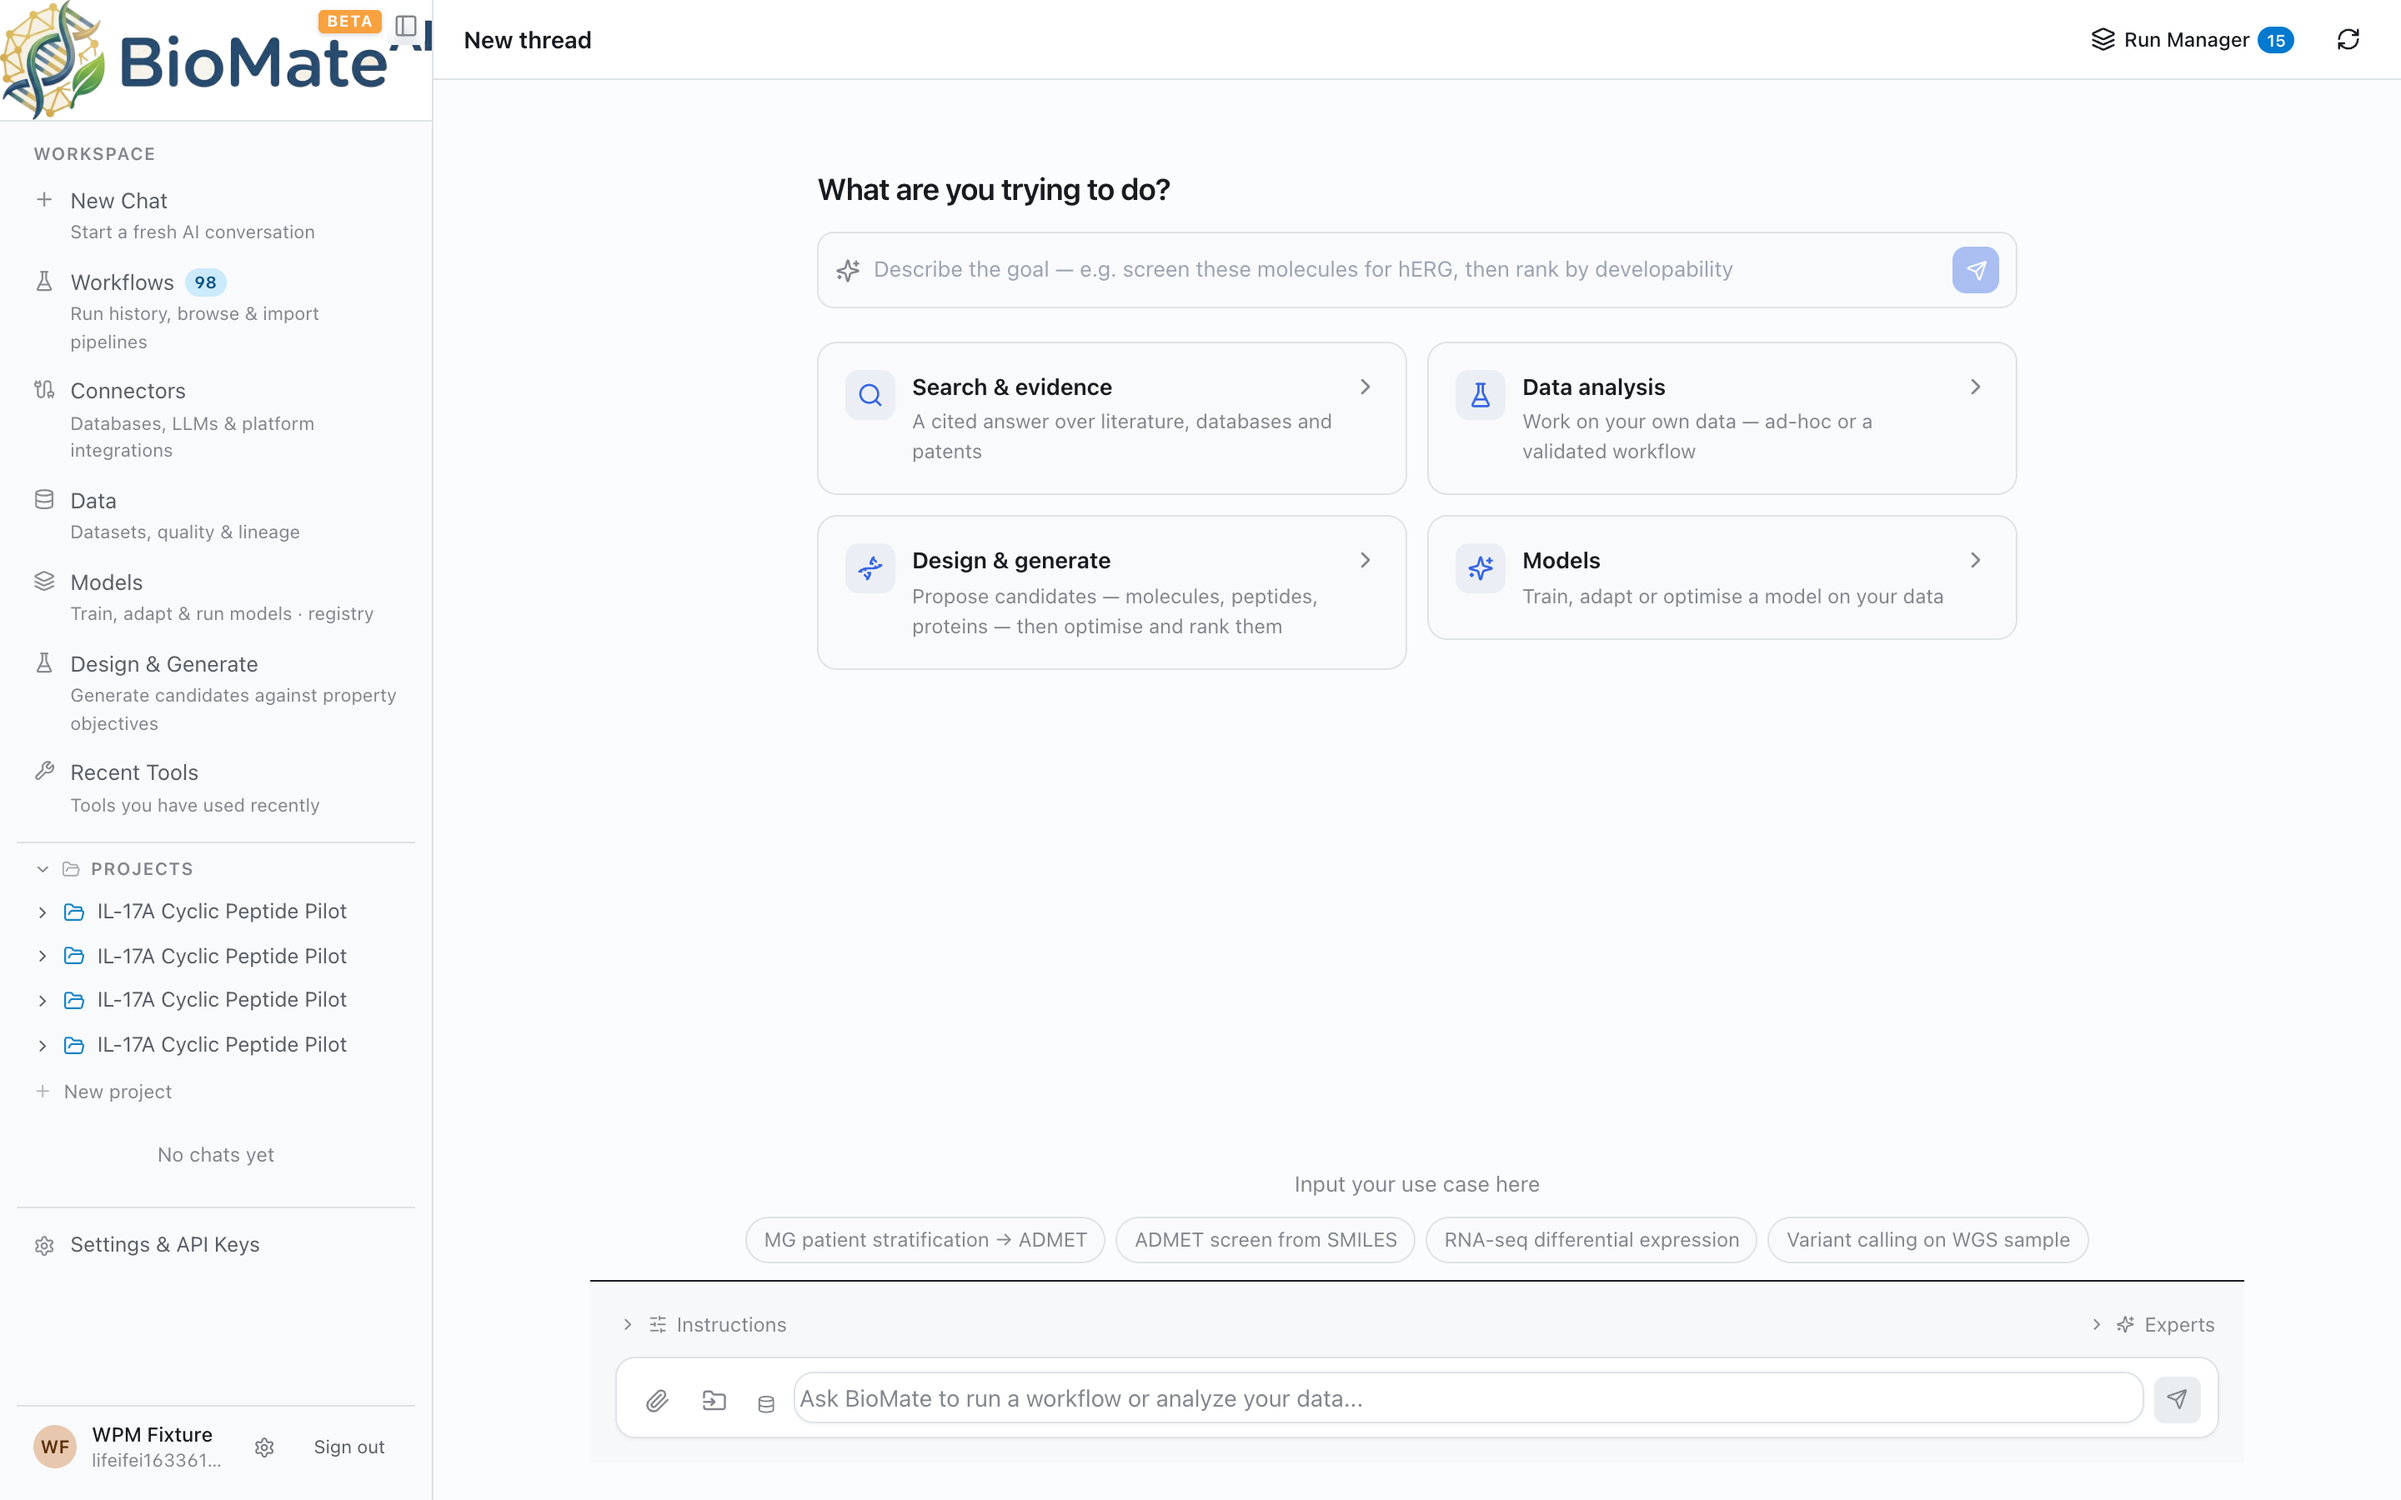
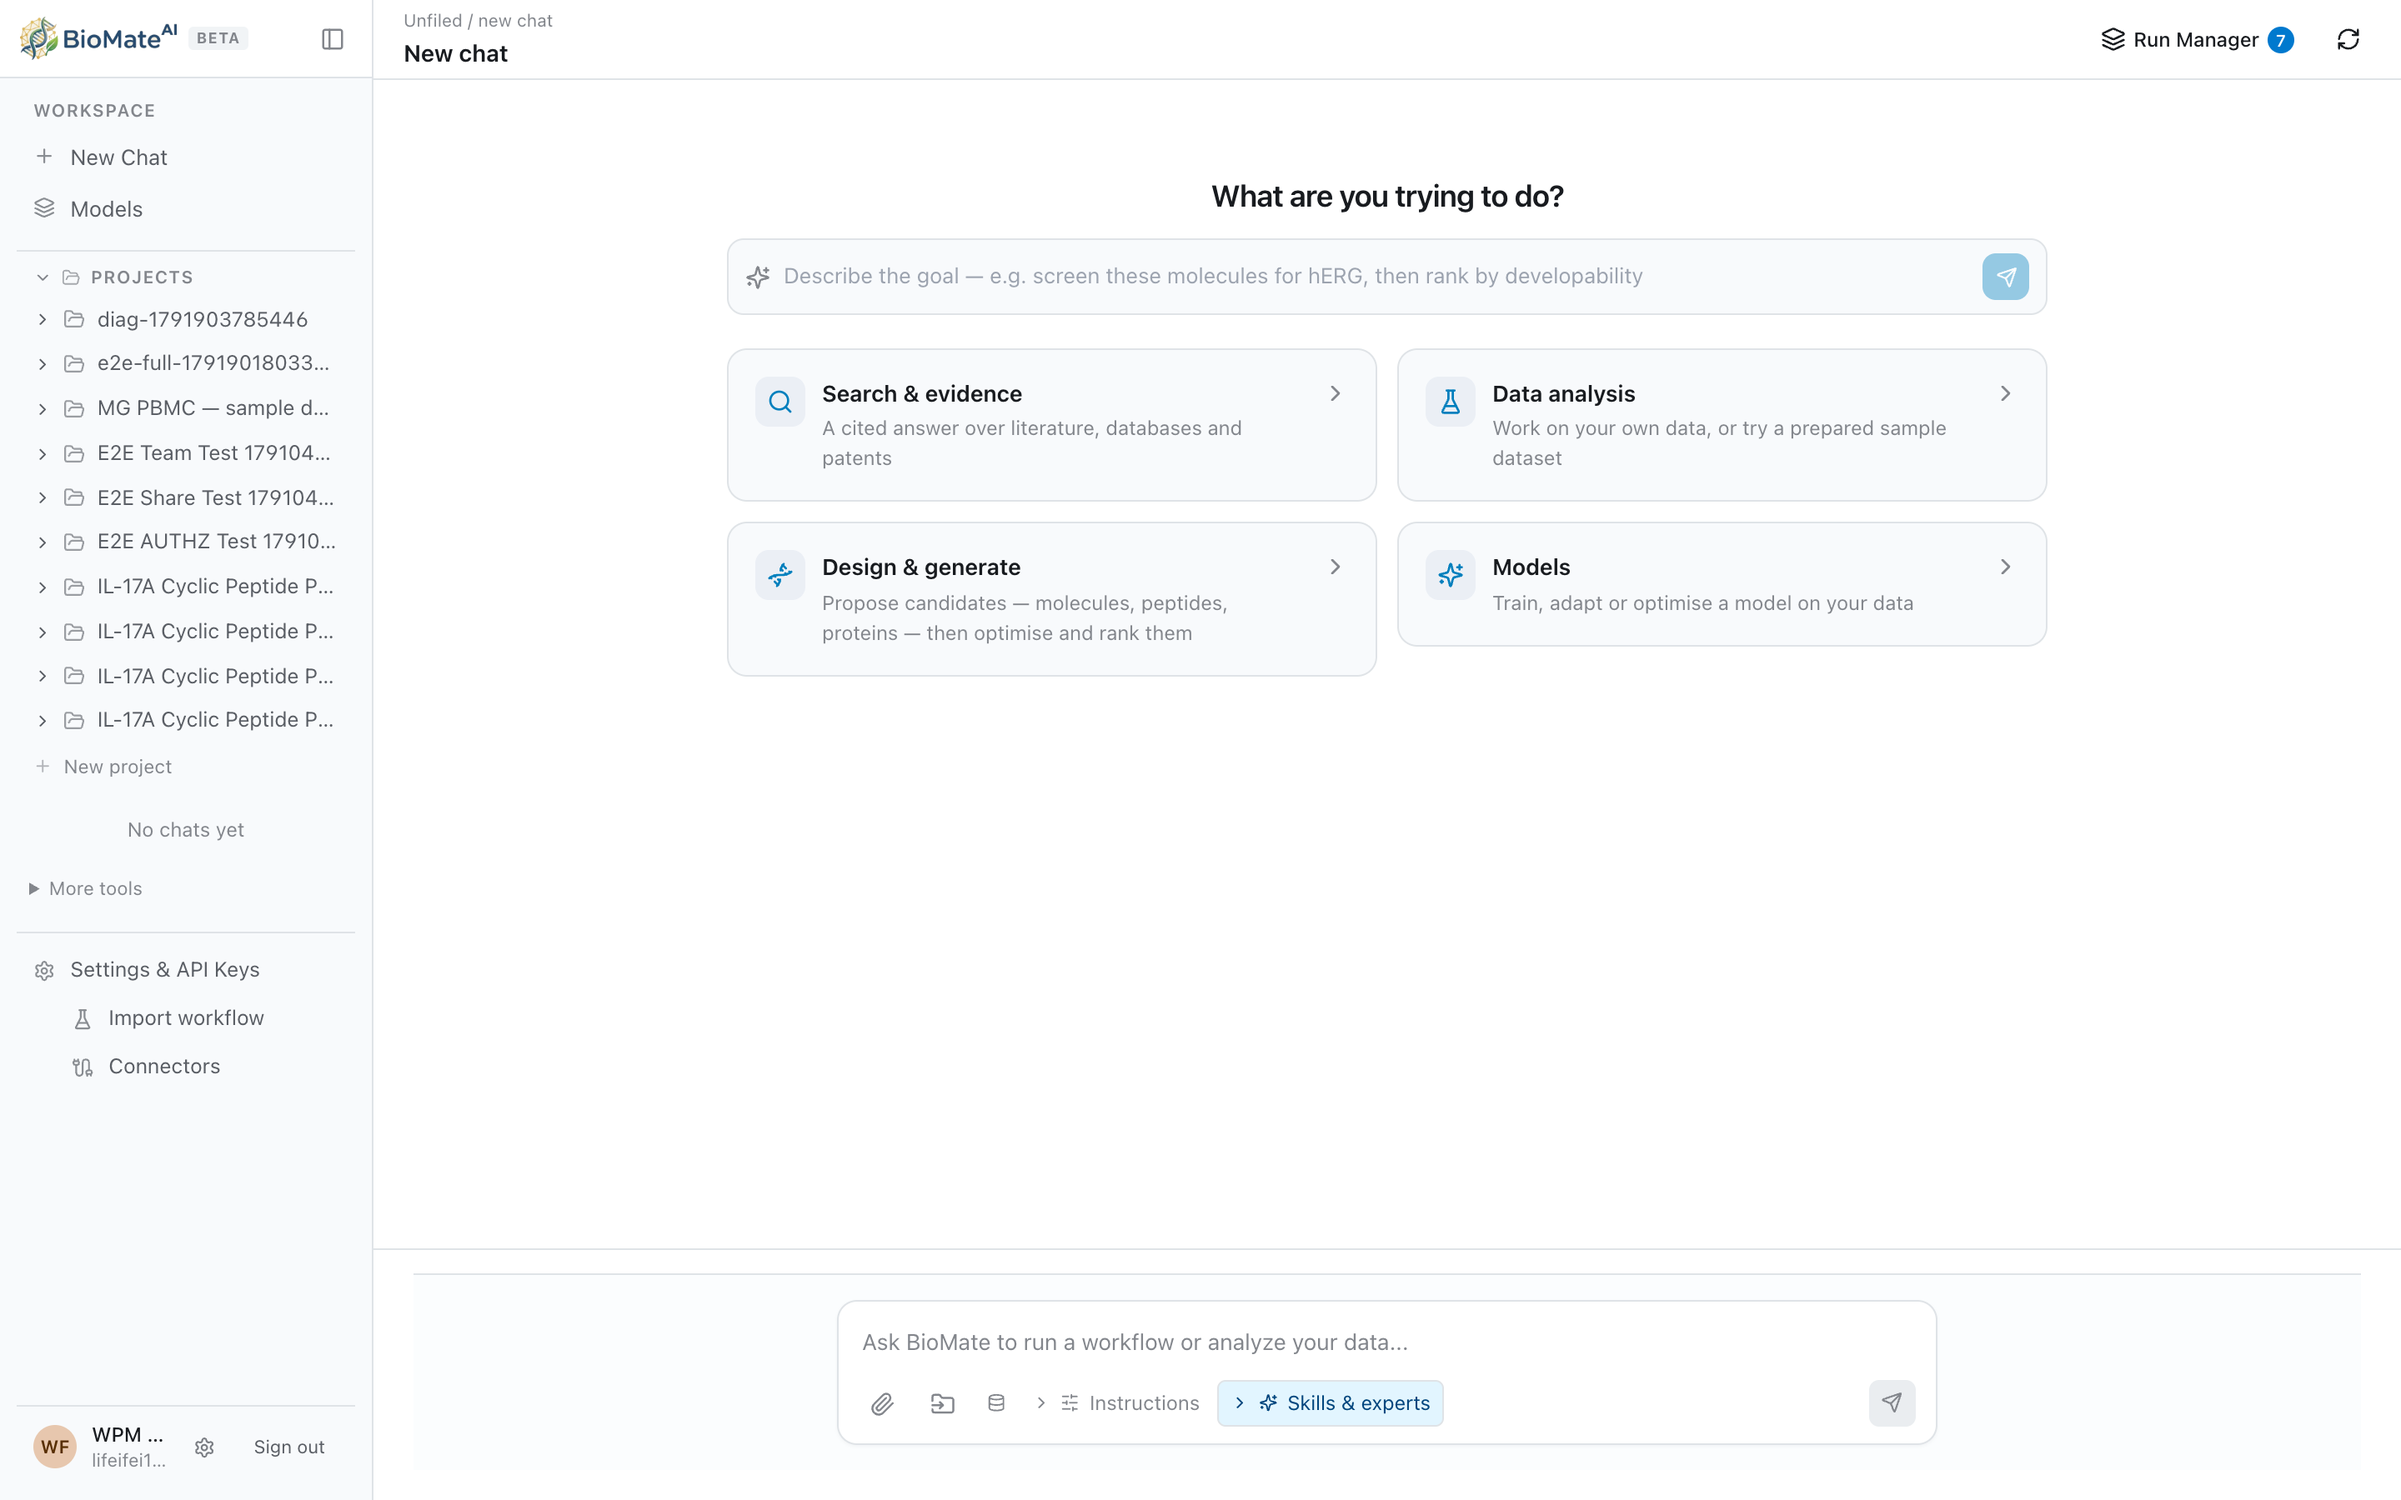
docs(assets): refresh cold-start + after-run stills for merged Results view
Re-captured via the established manual-screenshots harness (not ad-hoc):
- Updated manual-screenshots.e2e.ts after-run capture for the MERGED view —
  use /debug/afterrun/:runId (AfterRunReport) + a run with real findings/
  outputs; the old /debug/viewer + after-tab-outputs path is gone (no Outputs
  tab anymore). Default MANUAL_RUN_ID = the ADMET run.
- i01-1-cold-start.png: current cold-start ('try a prepared sample dataset').
- i09-1-three-tabs.png: now the two-tab Results view (findings banner + Download
  findings). i08-1-outputs-tab.png: the inline output-preview gallery.
  i09-2-reproducibility-record.png: record tab.

diff --git a/frontend/e2e/manual-screenshots.e2e.ts b/frontend/e2e/manual-screenshots.e2e.ts
@@ -100,15 +100,16 @@ test("capture data-hub drill-in (I.5)", async ({ page }) => {
 });
 
 // Capture the run-dependent after-run report from an EXISTING completed run
-// (no fresh Batch run) via /debug/viewer/:runId, which mounts the workflow
-// viewer in completed state. Set MANUAL_RUN_ID to a run that has outputs.
-const RUN_ID = process.env.MANUAL_RUN_ID || "15736778-6689-44d9-bca1-563987669457";
+// (no fresh Batch run) via /debug/afterrun/:runId, which mounts the v2
+// AfterRunReport (the MERGED "Results" view) in completed state. Set
+// MANUAL_RUN_ID to a run that has findings + outputs. Default = the ADMET run.
+const RUN_ID = process.env.MANUAL_RUN_ID || "c79a9ccc-2e9b-4fa6-94ce-a3f54aaaa950";
 test("capture after-run report from an existing run (I.6/I.8/I.9)", async ({ page }) => {
   test.setTimeout(150_000);
   await loginAsFixture(page);
   const log: string[] = [];
-  const shot = async (name: string) => {
-    await page.screenshot({ path: path.join(ASSETS, name) });
+  const shot = async (name: string, el?: import("@playwright/test").Locator) => {
+    await (el ?? page).screenshot({ path: path.join(ASSETS, name) });
     log.push(`OK   ${name}`);
   };
   const clickTab = async (testid: string) => {
@@ -118,10 +119,17 @@ test("capture after-run report from an existing run (I.6/I.8/I.9)", async ({ pag
   };
   try {
     await page.setViewportSize({ width: 1440, height: 1000 });
-    await page.goto(BASE_URL + `/debug/viewer/${RUN_ID}`, { waitUntil: "domcontentloaded", timeout: 45_000 });
-    await page.waitForTimeout(6000); // viewer + after-run report render
-    await shot("i09-1-three-tabs.png"); // Summary (landing) of the 3-tab report
-    if (await clickTab("after-tab-outputs")) await shot("i08-1-outputs-tab.png");
+    await page.goto(BASE_URL + `/debug/afterrun/${RUN_ID}`, { waitUntil: "domcontentloaded", timeout: 45_000 });
+    await page.waitForTimeout(6000); // AfterRunReport + findings fetch + lazy previews render
+    // Merged "Results" tab is the landing tab: findings banner on top, then the
+    // searchable inline Outputs gallery (no separate Outputs tab anymore).
+    await shot("i09-1-three-tabs.png"); // now: the Results tab (findings banner + outputs below)
+    const outputs = page.locator('[data-testid="output-files-table"]').first();
+    if (await outputs.isVisible({ timeout: 4000 }).catch(() => false)) {
+      await outputs.scrollIntoViewIfNeeded().catch(() => {});
+      await page.waitForTimeout(1500);
+      await shot("i08-1-outputs-tab.png", outputs); // the inline output-preview gallery (Results tab)
+    }
     if (await clickTab("after-tab-record")) await shot("i09-2-reproducibility-record.png");
   } catch (e: any) {
     log.push(`FAIL after-run — ${e?.message?.split("\n")[0] ?? e}`);
